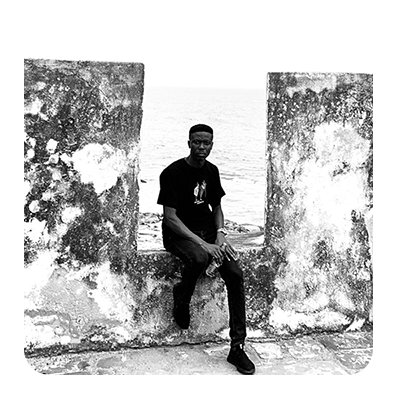
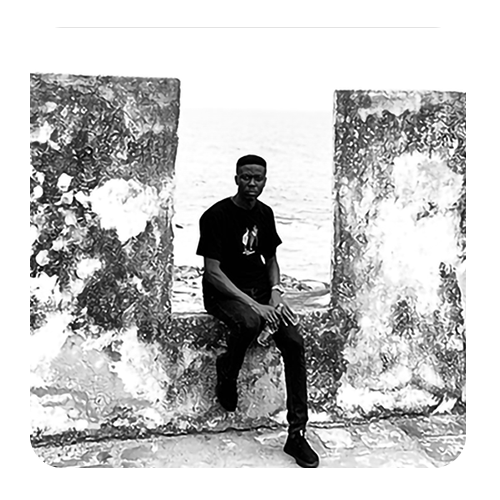
major

diff --git a/src/Components/Portfolio.jsx b/src/Components/Portfolio.jsx
@@ -1,0 +1,88 @@
+import React from "react";
+import { Container, Row, Col, Button } from "react-bootstrap";
+import { TiBrush } from "react-icons/ti";
+import { FiSettings } from "react-icons/fi";
+import { BsGlobe2 } from "react-icons/bs";
+import munaImage from "../images/muna.webp";
+const Portfolio = () => {
+  return (
+    <section id="portfolio">
+      <Container>
+        <Row>
+          <h1 className="tagline-2"> Portfolio </h1>
+          <p className="centered-text">Some text here.</p>
+          <Col md={6}>
+            <div className=" text-white rounded">
+              <div className="bg-warning rounded p-3">
+                <img
+                  src={munaImage}
+                  alt="Project 4"
+                  className="mb-3"  style={{ width: "100%", padding: "10px" }}
+                />
+                <h3 className="mb-3">Project 4</h3>
+                <p className="mb-3">Short description of project 4.</p>
+                
+              </div>
+              <Button  variant="light" href="#" style={{background: 'none', border: 'none', color: 'white'  }}>
+                View Project
+              </Button>
+            </div>
+          </Col>
+          <Col md={6}>
+            <div className=" text-white rounded">
+              <div className="bg-warning rounded p-3">
+                <img
+                  src={munaImage}
+                  alt="Project 4"
+                  className="mb-3"  style={{ width: "100%", padding: "10px" }}
+                />
+                 <h3 className="mb-3">Project 3</h3>
+                <p className="mb-3">Short description of project 3.</p>
+              </div>
+              <Button  variant="light" href="#" style={{background: 'none', border: 'none', color: 'white'  }}>
+                View Project
+              </Button>
+            </div>
+          </Col>
+        
+          <Col md={6} className="portfolio">
+            <div className="text-white rounded">
+              <div className="bg-secondary rounded p-3">
+                <img
+                  src={munaImage}
+                  alt="Project 2"
+                  className="mb-3"  style={{ width: "100%", padding: "10px" }}
+                />
+                <h3 className="mb-3">Project 2</h3>
+                <p className="mb-3">Short description of project 2.</p>
+               
+              </div>
+              <Button  variant="light" href="#" style={{background: 'none', border: 'none', color: 'white'  }}>
+                View Project
+              </Button>
+            </div>
+          </Col>
+          <Col md={6} className="portfolio">
+            <div className=" text-white rounded">
+              <div className="bg-secondary rounded p-3">
+                <img
+                  src={munaImage}
+                  alt="Project 2"
+                  className="mb-3"  style={{ width: "100%", padding: "10px" }}
+                />
+               <h3 className="mb-3">Project 1</h3>
+              <p className="mb-3">Short description of project 1.</p>
+             
+              </div>
+              <Button  variant="light" href="#" style={{background: 'none', border: 'none', color: 'white'  }}>
+                View Project
+              </Button>
+            </div>
+          </Col>
+        </Row>
+      </Container>
+    </section>
+  );
+};
+
+export default Portfolio;

diff --git a/src/Components/navbar.js b/src/Components/navbar.js
@@ -1,32 +1,33 @@
 import { useRef } from "react";
-import {FaBars, FaTimes} from "react-icons/fa";
+import { FaBars, FaTimes } from "react-icons/fa";
+import { Link } from 'react-scroll';
+
 import "../styles/main.css"
-import "../styles/main.css"
+
 function Navbar () {
     const navRef = useRef()
 
     const showNavbar = () => {
         navRef.current.classList.toggle("responsive_nav")
     }
- return ( 
-    <header>
-    <h3>Logo</h3>
-    <nav ref={navRef}>
-        <a href="/#">Home</a>
-        <a href="/#">My work</a>
-        <a href="/#">Blog</a>
-        <a href="/#">About</a>
-        <button className="nav-contact" ><a href = "/#">Contact me</a></button>
-        <button className="nav-btn nav-close-btn" onClick={showNavbar}>
-            <FaTimes/>
-        </button>
-    </nav>
-    <button className="nav-btn" onClick={showNavbar}>
-            <FaBars/>
-        </button>
-    </header>
-
- );
-
+    
+    return (
+        <header>
+            <h3>Logo</h3>
+            <nav ref={navRef}>
+                <Link to="home" smooth={true} duration={500} onClick={() => showNavbar()}>Home</Link>
+                <Link to="portfolio" smooth={true} duration={500} onClick={() => showNavbar()}>My work</Link>
+                <Link to="about" smooth={true} duration={500} onClick={() => showNavbar()}>About</Link>
+                <button className="nav-contact" ><a href = "/#">Contact me</a></button>
+                <button className="nav-btn nav-close-btn" onClick={showNavbar}>
+                    <FaTimes/>
+                </button>
+            </nav>
+            <button className="nav-btn" onClick={showNavbar}>
+                <FaBars/>
+            </button>
+        </header>
+    );
 }
- export default Navbar
+
+export default Navbar;

diff --git a/src/styles/main.css b/src/styles/main.css
@@ -1,4 +1,6 @@
-@import url('https://fonts.googleapis.com/css2?family=Poppins:ital@0;1&display=swap');
+/* @import url('https://fonts.googleapis.com/css2?family=Poppins:ital@0;1&display=swap');
+  @import url('https://fonts.googleapis.com/css2?family=Poppins:wght@900&display=swap'); */
+
 *{
     padding: 0;
     margin: 0;
@@ -18,6 +20,11 @@
 }
 
 header{
+    position: sticky;
+    top: 0;
+    background-color: white;
+    z-index: 100;
+    transition: all 0.3s ease-in-out;
     display: flex;
     align-items: center;
     justify-content: space-between;
@@ -27,6 +34,20 @@ header{
     color: var(--textColor);
     z-index: 1;
 }
+header.sticky {
+    position: fixed;
+    top: 0;
+    left: 0;
+    color: rgb(255, 255, 255);
+    width: 100%;
+    z-index: 999;
+    background-image: linear-gradient(-225deg,
+    #231557 20%,
+    #ff1361 67%,
+    #ef6d35 100%);
+    box-shadow: 0 2px 5px rgba(0, 0, 0, 0.3);
+  }
+  
 
 nav a{
     margin: 0 2rem;
@@ -39,6 +60,11 @@ nav {
 }
 nav a:hover {
     color: var(--secondaryColor);
+}
+
+.portfolio{
+height: 50%;
+margin: 2% 0% 2% 0%;
 }
 
 header .nav-btn{
@@ -71,6 +97,26 @@ header .nav-btn{
   .col-md-4 {
     flex: 1;
   }
+  .container {
+    display: flex;
+    justify-content: center;
+    align-items: center;
+    /* height: 100vh; Adjust the height to match your needs */
+    background-color: black; /* Set the background color to black */
+  }
+  
+  .centered-text {
+    text-align: center;
+    color: white; /* Set the font color to white */
+  }
+  .tagline-2{
+    font-size: 3rem;
+    font-family: 'Poppins', sans-serif; /* Use the font name here */
+    font-weight: 900;
+    color: white;
+    text-align: center;
+  }
+  
   
   .card {
     height: 100%;

diff --git a/src/Components/body.jsx b/src/Components/body.jsx
@@ -4,21 +4,24 @@ import "../styles/main.css";
 import { Container, Row, Col } from 'react-bootstrap';
 import { TiBrush } from 'react-icons/ti';
 import { FiSettings } from 'react-icons/fi';
-import { MdWeb } from 'react-icons/md';
+import { BsGlobe2 } from 'react-icons/bs';
 
 function Body() {
   const BodyRef = useRef();
 
   return (
     <section>
-      <Container>
+       
+      <Container style={{marginBottom: '15%'}}>
         <Row>
+        <p className="centered-text">From branding to content creation</p>
+        <h1 className="tagline-2"> I can help </h1>
           <Col md={4}>
             <div className="card  text-white rounded">
               <div className="card-body">
-              <MdWeb size={90}
+              <BsGlobe2 size={90}
         style={{
-          color: '#361C29',
+          color: '#FF097F',
           backgroundColor: '#361C29',
           borderRadius: '50%',
           padding: '20px'
@@ -53,7 +56,7 @@ function Body() {
               </div>
             </div>
           </Col>
-          <Col md={4}>
+          <Col md={4} >
             <div className="card text-white rounded">
               <div className="card-body">
               <FiSettings size={90}
@@ -76,7 +79,9 @@ function Body() {
         </Row>
       </Container>
     </section>
+   
   );
+  
 }
 
 export default Body;

diff --git a/src/Components/HeroSection.jsx b/src/Components/HeroSection.jsx
@@ -6,24 +6,20 @@ const HeroSection = () => {
   const [textIndex, setTextIndex] = useState(0);
 
   return (
+    <section id="about">
     <div className="hero-section">
       <div className="hero-image">
         <img className="van" src={vanImage} alt="Van" />
       </div>
       <div className="hero-text">
-        <h5
-          class="header_sub_title wow fadeInUp"
-          data-wow-duration="1.3s"
-          data-wow-delay="0.2s"
-        >
-          Hello I'm
-        </h5>
+        <h3 className="sub-text">Hello I'm</h3>
         <h1 class="animate-charcter">Van Kelvin</h1>
         <div class="string">
           <h1 class="greeting en">Hello World!</h1>
         </div>
       </div>
     </div>
+    </section>
   );
 };
 

diff --git a/src/App.js b/src/App.js
@@ -2,6 +2,8 @@ import React from "react";
 import Navbar from "./Components/navbar";
 import Body from "./Components/body";
 import HeroSection from "./Components/HeroSection";
+import Portfolio from "./Components/Portfolio";
+import './navSticky.js';
 
 function App() {
   return (
@@ -10,6 +12,7 @@ function App() {
     <Navbar/>
     <HeroSection/>
     <Body/>
+    <Portfolio/>
     </React.Fragment>
     </div>
   );

diff --git a/src/navSticky.js b/src/navSticky.js
@@ -1,0 +1,9 @@
+const navbar = document.querySelector('header');
+
+window.addEventListener('scroll', () => {
+  if(window.scrollY > navbar.offsetHeight + 150) {
+    navbar.classList.add('sticky');
+  } else {
+    navbar.classList.remove('sticky');
+  }
+});

diff --git a/src/styles/HeroSection.css b/src/styles/HeroSection.css
@@ -27,6 +27,10 @@
   padding: 2rem;
   position: relative;
 }
+.sub-text{
+  font-size: 40px;
+  color: white;
+}
 
 .animate-charcter {
   background-image: linear-gradient(-225deg,
